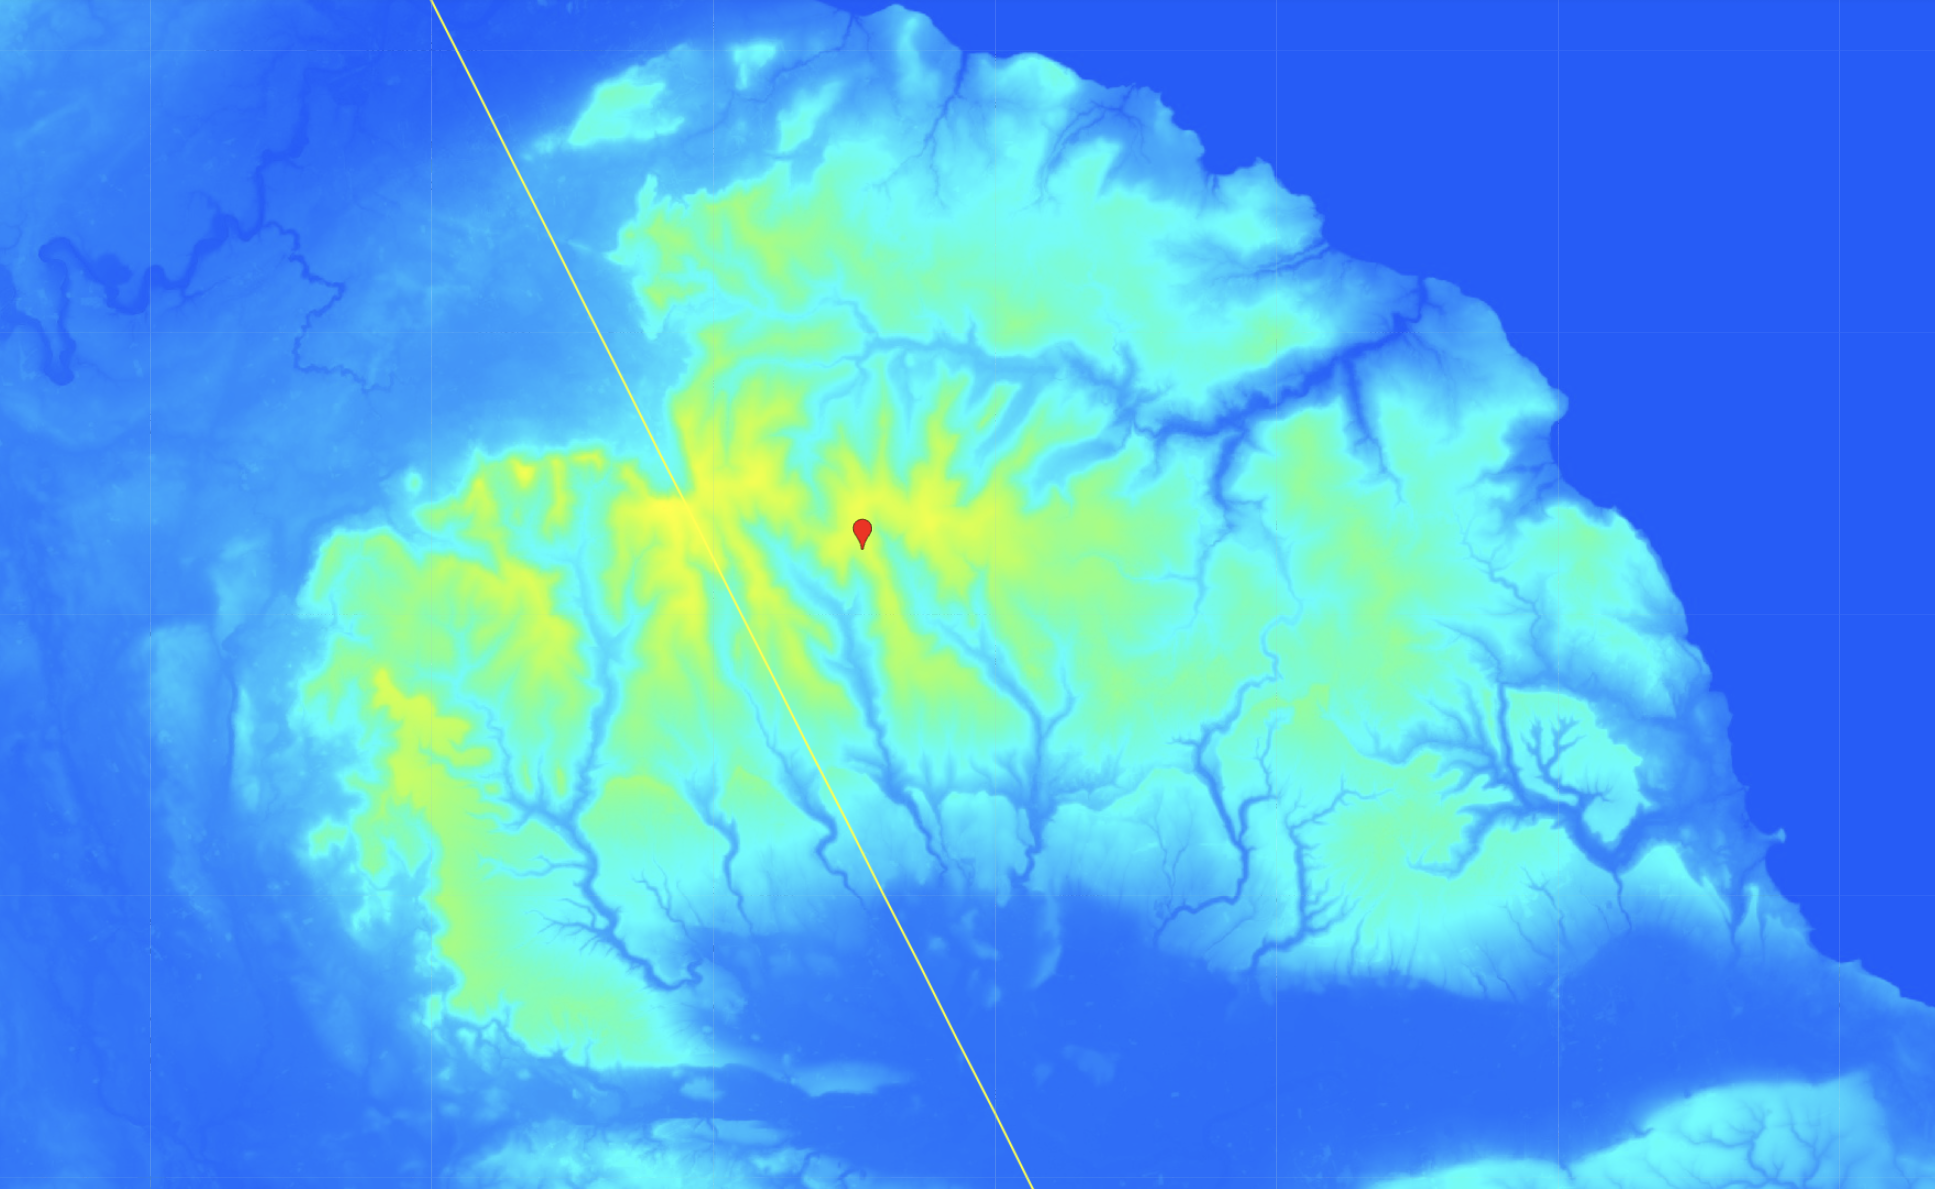
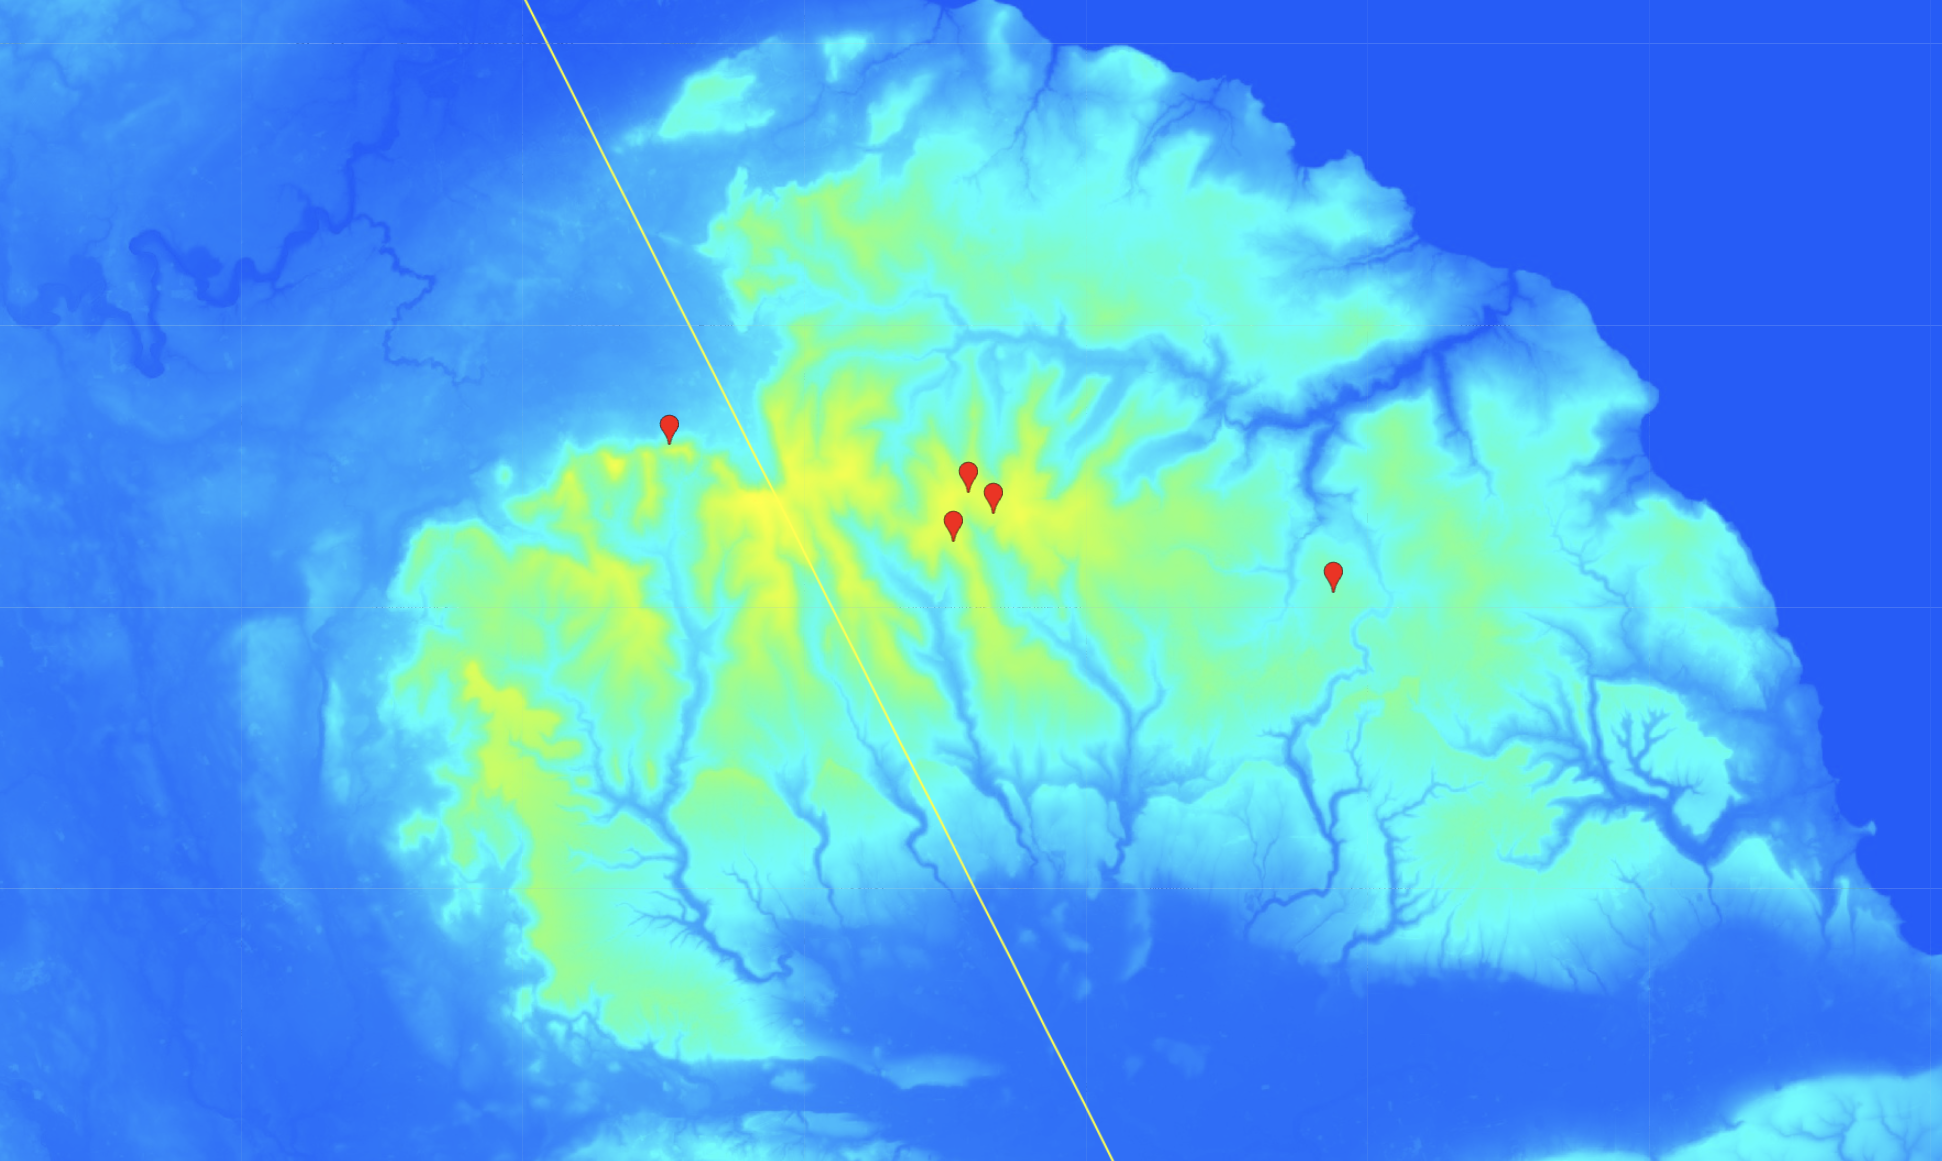
nande

diff --git a/2-LOCATION-ANALYSIS/europe/great-britain/README.md b/2-LOCATION-ANALYSIS/europe/great-britain/README.md
@@ -9,6 +9,9 @@ Looks pretty streamline to me thanks to the rest of the UK blocking it from the 
 Viz -100m to 1000m.
 
 ![](img/n100-1000.png)
+
+Marked here are the 5 erratics I found in the region below:
+
 ![](img/closeup.png)
 
 ## Erratics List:
